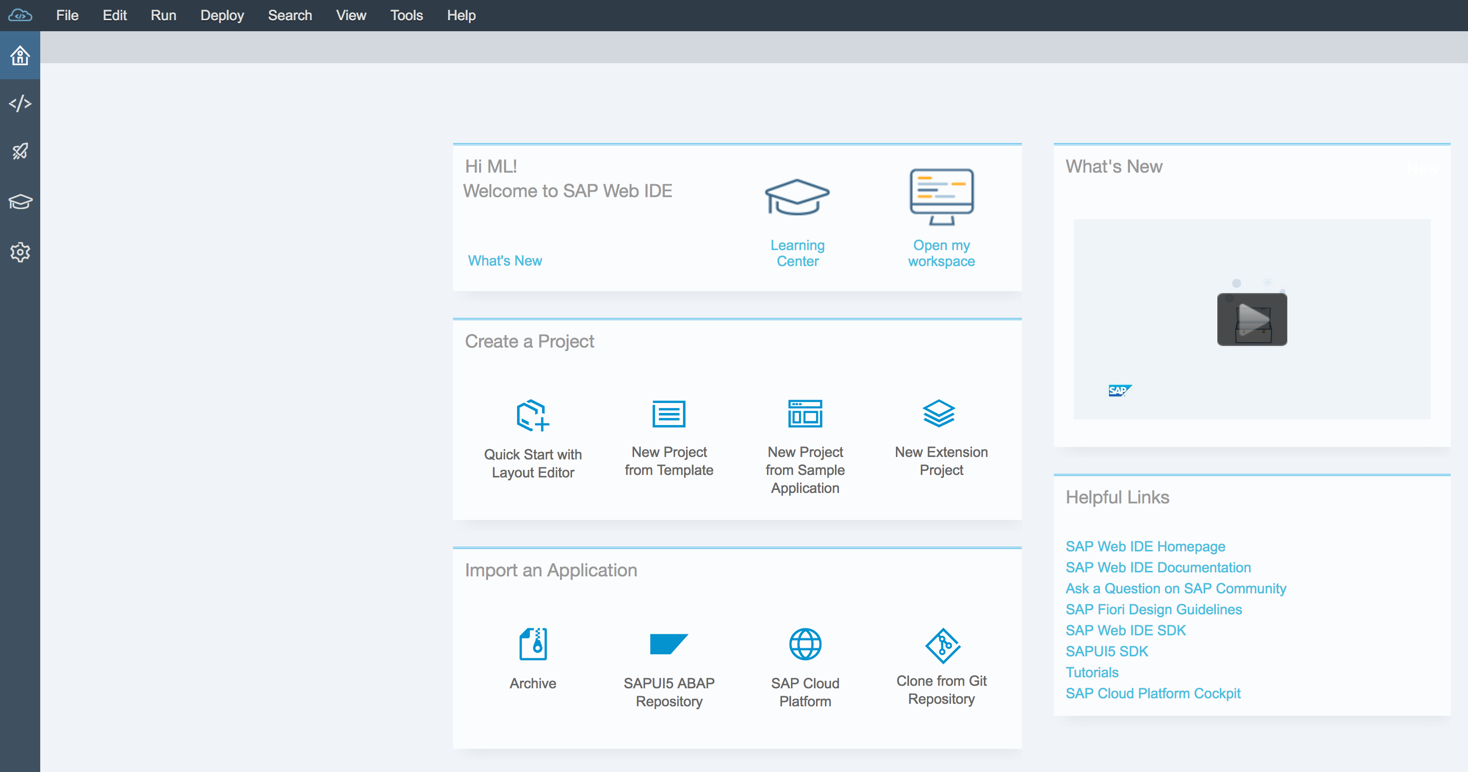
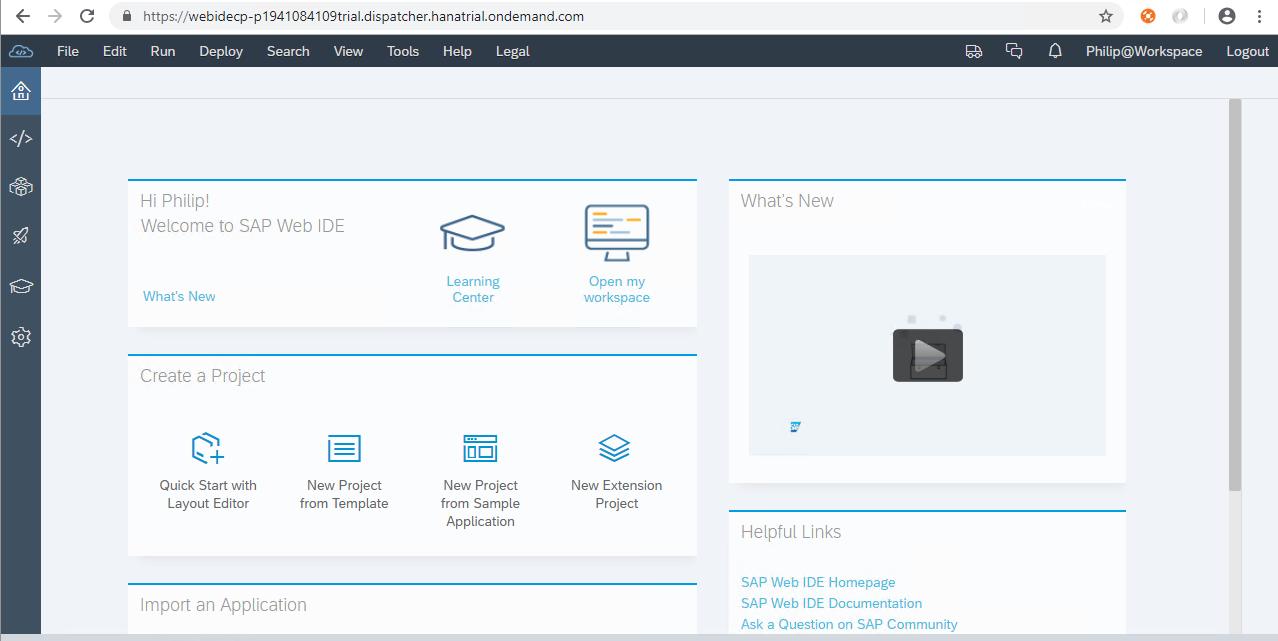
PowerWeek2018

diff --git a/Exercise_06/Exercise_06.md b/Exercise_06/Exercise_06.md
@@ -6,16 +6,16 @@
 
 
 ## Description
-In this exercise, you’ll learn how 
+In this exercise, you’ll learn how to
 
-* to import a project into SAP Web IDE Full-Stack
-* to setup the development environment
-* to use SAP Leonardo ML Image Classification with SAPUI5
+* Import a project into SAP Web IDE Full-Stack
+* Setup the development environment
+* Use SAP Leonardo ML Image Classification with SAPUI5
 
 ## Target group
 
 * Developers
-* People interested in SAP Leonardo and Machine Learning 
+* People interested in SAP Leonardo and Machine Learning
 
 
 ## Goal
@@ -24,40 +24,22 @@ You will learn how to quickly integrate the Image and Product Image Classificati
 
 
 ## Prerequisites
-  
+
 Here below are prerequisites for this exercise.
 
 * A trial account on the SAP Cloud Platform. You can get one by registering here <https://account.hanatrial.ondemand.com>
 * Previous exercise
-* Download the following file from here [MLFSAPUI5\_Project\_Exercise.zip](files/MLFSAPUI5_Project_Exercise.zip) and save it in a proper location: it will be used later in this document
+* Download the following file from here [MLFSAPUI5\_Project\_Exercise.zip](files/MLFSAPUI5_Project_Exercise.zip) and save it as it will be used later in this exercise
 
 
 ## Steps
-1. [Authorization](#authorization)
 1. [Setup the Development Environment](#setup-dev-env)
 1. [Use SAP Leonardo ML Image Classification with SAPUI5](#image-classification)
 1. [Adjust the prepared SAPUI5 application to access your ML foundation services](#adjust-app)
 
 
-
-### <a name="authorization"></a> Authorization
-We created a user for you that you will use to logon to 
--	SAP API Business Hub (http://api.sap.com) 
--	SAP Cloud Platform (SAP CP) Cockpit (https://cloudplatform.sap.com) 
--	SAP Cloud Foundry via CF CLI 
-
-This user should have all the necessary privileges to perform all parts of the following exercises. The username you should use is associated with your group and follows this pattern:
-
-**ml-train+XX@sap.com** 
-
-where **XX** needs to be replaced by your workstation ID, e.g. if your workstation ID is 01, then you should take the user ml-train+01@sap.com.
-
-Please make sure that you work with the correct username to avoid conflicts with other participants. Take note of the following credentials, you will be using them during all exercises. 
-
-
-
 ### <a name="setup-dev-env"></a> Setup the Development Environment
-For the exercises where we develop SAPUI5 and Java applications, we will work with the SAP WebIDE in SAP Cloud Platform. To save time, we prepared a project for you so that we can focus on the ML Foundation parts. This project needs to be imported into your SAP Web IDE workspace. You will extend the applications included in the project to test the SAP Leonardo ML services. 
+For the exercises where we develop SAPUI5 applications, we will work with SAP WebIDE in SAP Cloud Platform. To save time, we prepared a project for you so that we can focus on the ML Foundation parts. This project needs to be imported into your SAP Web IDE workspace. You will extend the applications included in the project to test the SAP Leonardo ML services.
 In this chapter, you will initialize the SAP Web IDE and import the given project. It will be used later in the corresponding exercises.
 
 Required resources for this step:
@@ -65,33 +47,26 @@ Required resources for this step:
 * [MLFSAPUI5\_Project\_Exercise.zip](files/MLFSAPUI5_Project_Exercise.zip?raw=true)
 * [MLFSAPUI5\_Project\_Solution.zip](files/MLFSAPUI5_Project_Solution.zip?raw=true) (only required if you get stuck with the exercise and you want to go straight to the solution)
 
-1. Open Firefox, as Chrome will use SSO for SAP Employees, and navigate to SAP Cloud Platform Cockpit via <http://cloudplatform.sap.com>  
+1. Using Chrome login to the SAP Cloud Platform trial <https://account.hanatrial.ondemand.com/cockpit#/home/trialhome>  
 	![](images/01.png)
-
-1. Login with your given e-Mail 
-**ml-train+XX@sap.com**, where **XX** must be replaced by your workstation ID, and the password provided by the trainer. 
-	![](images/02.png)
 
 1.	Click on **Neo Trial**
 
 	![](images/03.png)
 
-	> NOTE: The SAP Web IDE Full-Stack version is provided with the SAP CP Neo environment, but it can deploy to both SAP CP Cloud Foundry and Neo. 
+	> NOTE: The SAP Web IDE Full-Stack version is provided with the SAP CP Neo environment, but it can deploy to both SAP CP Cloud Foundry and Neo.
 
-1.	In the left menu bar, navigate to **Services** and search for "web". You will get two flavours of the SAP Web IDE. We will use the **SAP Web IDE Full-Stack** version as this is the one which supports both SAP Cloud Foundry and Neo 
+1.	In the left menu bar, navigate to **Services** and search for "web". You will get two flavors of the SAP Web IDE. We will use the **SAP Web IDE Full-Stack** version as this is the one which supports both SAP Cloud Foundry and Neo
 	![](images/04.png)
 
-1.	Click on **Go to Service**  
+1.	if for some reason it's not already enabled, press the **Enable** button. Click on **Go to Service** at the bottom in the **Take Action** area
 	![](images/05.png)
 
-1. This will open up the SAP Web IDE. 
+1. This will open up the SAP Web IDE.
 	![](images/06.png)
 
-1. Click on the **Development** tab on the left toolbar. If you see that there is already a project named *MLFSAPUI5\_Project\_Exercise* in the workspace, please right click on its name and choose **Edit -> Delete**  
+1. Click the **</>** icon in the left toolbar to open the workspace
 	![](images/07.png)
-
-1. You should start with a completely empty workspace like the one in the picture  
-	![](images/08.png)
 
 1.	From the **File** menu click on **Import -> File or Project**  
 	![](images/09.png)
@@ -111,19 +86,13 @@ Required resources for this step:
 ### <a name="image-classification"></a> Use SAP Leonardo ML Image Classification with SAPUI5
 In this exercise you will learn how to quickly integrate in a SAPUI5 application the Image Classification provided by the SAP Leonardo Machine Learning Functional Services and published in the SAP API Business Hub sandbox. These will be the steps you will go through:
 
-* Import a SAPUI5 application calling a REST service (see prerequisites)
-* Create a destination in SCP Cockpit to your ML Service endpoint in API Business Hub
+* Check that the **webide_di** destination exists
+* Create a new destination to the ML service sandbox endpoint in API Business Hub
 * Use the API Key for the image and product image classification from SAP API Business Hub
 * Adjust your prepared SAPUI5 application
-* Run the SAPUI5 application and test your ML Services.
+* Run the SAPUI5 application and test your ML Services
 
-1.	Open a new tab in your Firefox web browser and go to SAP Cloud Platform Cockpit <http://account.hanatrial.ondemand.com/cockpit>. Login in case you are not already logged in by using the given credentials and not SSO  
-	![](images/12.png)
-
-1.	Click on the **Neo Trial** tile  
-	![](images/13.png)
-
-1.	On the left side bar, select **Connectivity -> Destinations**. You need now to install the webide_di destination: if this destination is already existing, please continue with step 10  
+1.	Go back to the SAP Cloud Platform cockpit and select your trial account from the top menu then on the left side bar, select **Connectivity -> Destinations**. Check whether the **webide_di** destination exists. If not you need to install it. If this destination already exists please skip to step 8  
 	>NOTE: This destination is only required by SAP Web IDE to run applications in Web Preview mode: it's not related to ML
 
 	![](images/14.png)
@@ -139,18 +108,16 @@ In this exercise you will learn how to quickly integrate in a SAPUI5 application
 1. Save the destination  
 	![](images/17.png)
 
-1. Once you have imported it you should have only this destination in your system. Click on **Check Connection** to test if the destination is working fine  
-	>NOTE: If you see any other destination in your system please delete it
-
+1. Click on **Check Connection** to test if the **webide_di** destination is working fine
 	![](images/18.png)
 
 1. You should receive a status code of **200**   
 	![](images/19.png)
 
-1.	Click on **New Destination**  
+1. Click on **New Destination**  
 	![](images/20.png)
 
-1.	Enter the following information and click on the **New Property** button   
+1. Enter the following information and click on the **New Property** button   
 
 	|Parameter|Value|
 	|---------|-----|
@@ -166,18 +133,15 @@ In this exercise you will learn how to quickly integrate in a SAPUI5 application
 1. Add the property **WebIDEEnabled = true** to the destination and click **Save**
 	![](images/22.png)
 
-1.	You can use the **Check Connection** button to validate that the URL can be accessed 
+1.	You can use the **Check Connection** button to validate that the URL can be accessed
 	![](images/23.png)
 
 1. The response should be `Connection to "sapui5ml-api" established. Response returned: "404: Not Found"`  
 	![](images/24.png)
 
 
-
-
-
 ### <a name="adjust-app"></a> Adjust the prepared SAPUI5 application to access your ML foundation services
-For the exercises where we develop SAPUI5 and Java applications, we will work with the SAP WebIDE in SAP Cloud Platform. To save time, we prepared a project for you so that we can focus on the ML Foundation parts. This project needs to be imported into your SAP Web IDE workspace. You will extend the applications included in the project to test the SAP Leonardo ML services. 
+For the exercises where we develop SAPUI5 and Java applications, we will work with the SAP WebIDE in SAP Cloud Platform. To save time, we prepared a project for you so that we can focus on the ML Foundation parts. This project needs to be imported into your SAP Web IDE workspace. You will extend the applications included in the project to test the SAP Leonardo ML services.
 
 1.	Go to your SAP Web IDE Full-Stack edition and open the file  *MLFSAPUI5\_Project\_Exercise/neo-app.json*  
 	![](images/25.png)
@@ -197,53 +161,54 @@ For the exercises where we develop SAPUI5 and Java applications, we will work wi
 	```
 	![](images/26.png)
 
-1.	Scroll to the end of the *neo-app.json* file and add the String **"APIKey",** (pay attention to include the comma) to the **headerWhiteList** section and then **save** the file. This is how the file should look after these operations  
+1. Scroll to the end of the *neo-app.json* file and add the String **"APIKey",** (pay attention to include the comma) to the **headerWhiteList** section and then **save** the file. This is how the file should look after these operations  
 	![](images/27.png)
 
-1.	Open the file *MLFSAPUI5\_Project\_Exercise/webapp/model/settings.json*
+1. Open the file *MLFSAPUI5\_Project\_Exercise/webapp/model/settings.json*
 	![](images/28.png)
 
-1. Before we proceed with editing the *settings.json*, we need to get the **API Key** for the ML services from the API Business Hub, explained in the next steps
+1. Before we proceed with editing the *settings.json*, we need to get the **API Key** for the ML services from the API Business Hub - as done in the preceding exercise
 
-1.	Go to <https://api.sap.com>
+1. Go to <https://api.sap.com>
 
-1.	Click on the **Log On** button on the top right corner and login with the credentials provided by your instructor  
+1. Click on the **Log On** button on the top right corner and login with your trial account credentials  
 	![](images/30.png)
 
 1.	Once logged in, click on the drop down list in the top right corner of the screen and choose **Preferences**  
 	![](images/31.png)
 
-1.	Click on **Show API key**  
+1.	Click on **Show API Key**  
 	![](images/32.png)
 
 1. Click on **Copy Key and Close**: the API key gets copied in your clipboard  
 	![](images/33.png)
 
 1. Now go back to your SAP Web IDE in SAP Cloud Platform, where the *settings.json* is still open.
-Replace the **<<<< COPY YOUR API KEY >>>>** string with the API key you copied in the clipboard and **save** the file
+Replace the **<<<< COPY YOUR API KEY >>>>** string with the API key you copied in the clipboard and **Save** the file
 	![](images/34.png)
 
-1.	Click on the **Run** icon on the toolbar to execute the application   
+1.	Click on the **Run** icon on the toolbar to execute the application - you will probably need to *allow pop-ups* then click on **Run** again
 	![](images/35.png)
 
-1. The application comes up. Extract the 4 images contained in the zip file ([test_images.zip](files/test_images.zip?raw=true)) you have downloaded already as explained in the prerequisites  
+1. The application comes up. Extract the 4 images contained in the zip file ([test_images.zip](files/test_images.zip?raw=true)) you have already downloaded during the previous exercise  
 
-1. Select the *tennis_ball.jph* image and drag & drop it onto the camera icon
+1. Click on the blue icon containing a camera and select the *tennis_ball.jpg* image from the dialog
+
 	![](images/37.png)
 
-1. The application charts the 5 most probable classifications for the image. To see the actual response from the server you can press the "View JSON" Button 
+1. The application displays the 5 most probable classifications for the image. To see the actual response from the server you can press the "View JSON" Button
 	![](images/38.png)
 
-1. Do the same for the other images by either dragging & dropping the selected image onto the icon or pressing the icon itself to open a file select dialog. Analyze the results
+1. Do the same for the other images by pressing the icon to open a file select dialog. Analyze the results - they should be the same as in the previous exercise
 
-1. This concludes the exercise.
+1. This concludes the exercise
 
 
 ## Summary
 This concludes the exercise. You are now able to:
 
-* Use the SAP Web IDE to import a SAPUI5 application
-* Create a destination that points to your ML service API endpoint in SAP API Business Hub
-* Adjust a prepared project using a configured destination calling REST services from ML foundation
- 
- Please proceed with next exercise.
+* Import a project into SAP Web IDE Full-Stack
+* Setup the development environment
+* Use SAP Leonardo ML Image Classification with SAPUI5
+
+ Please proceed with the next exercise.
